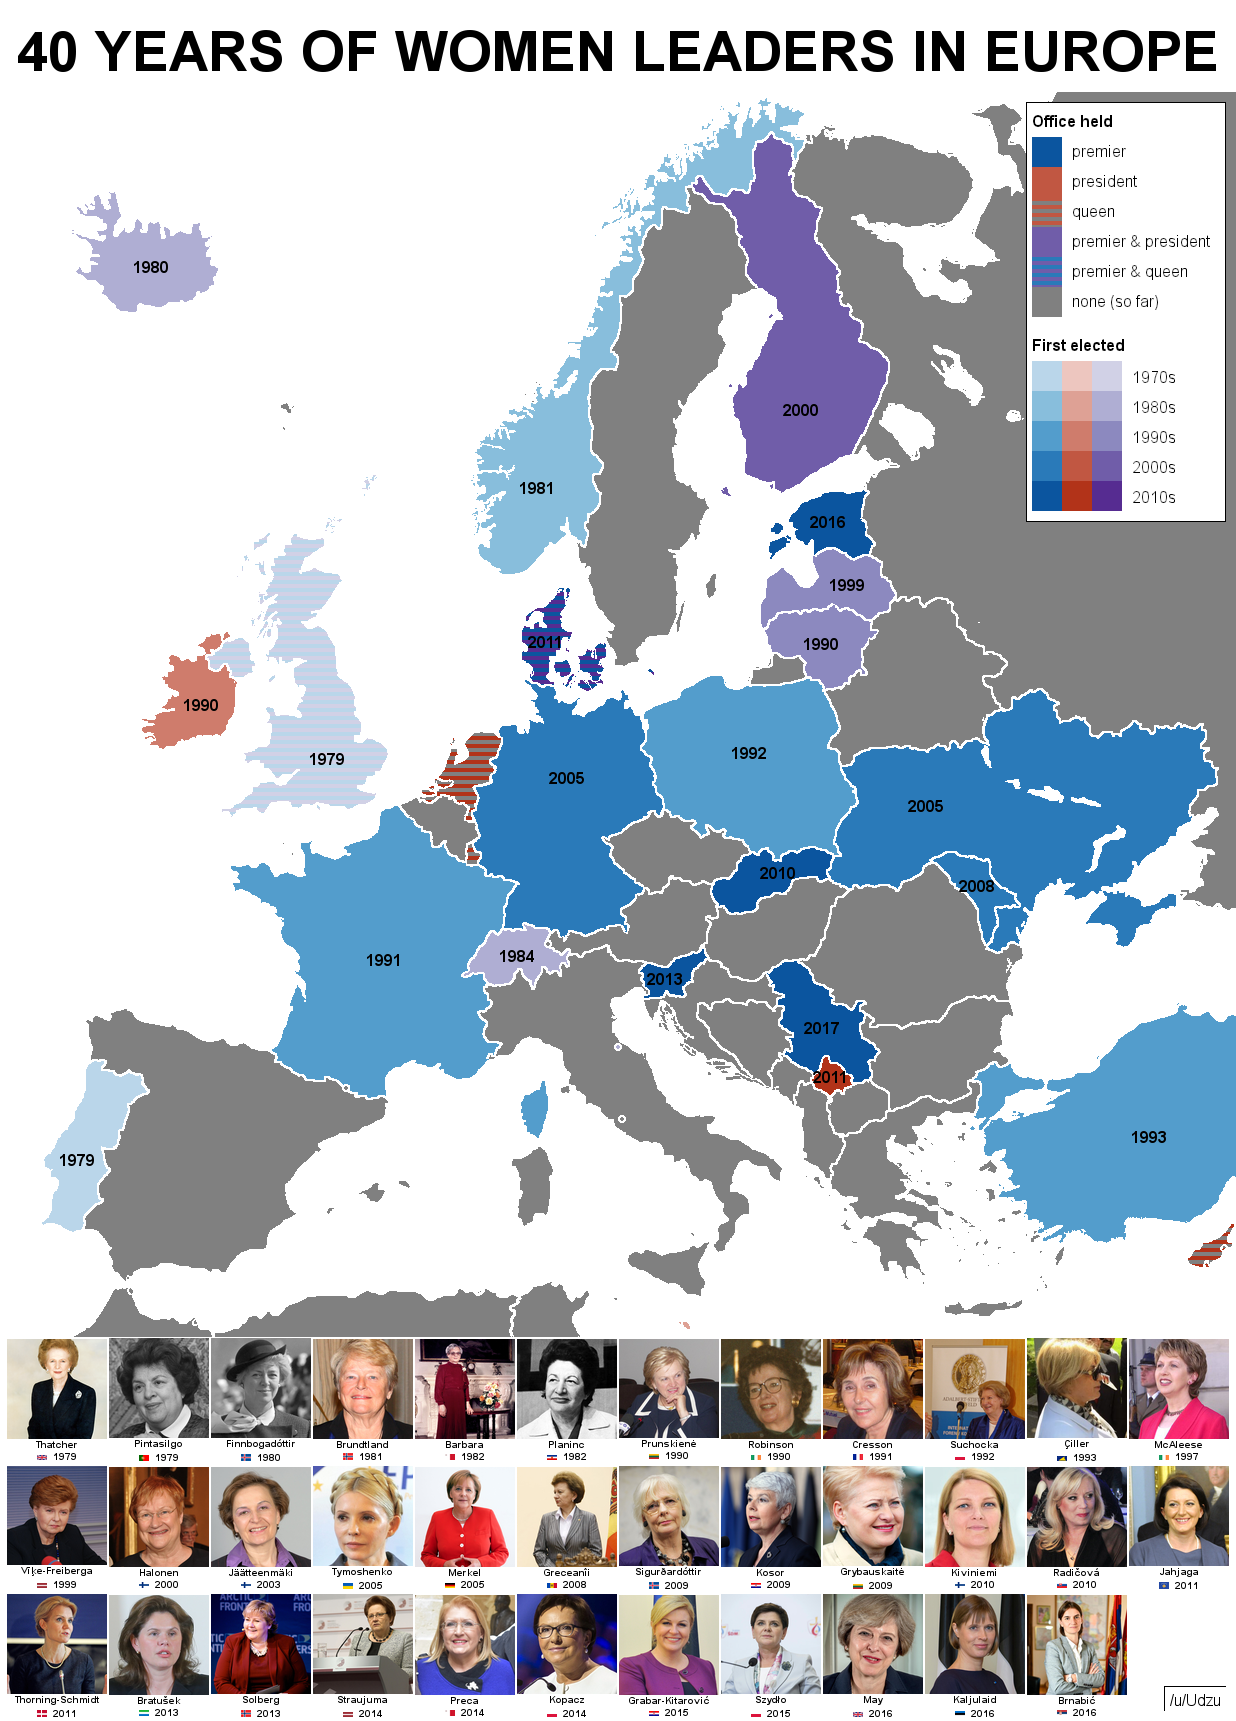
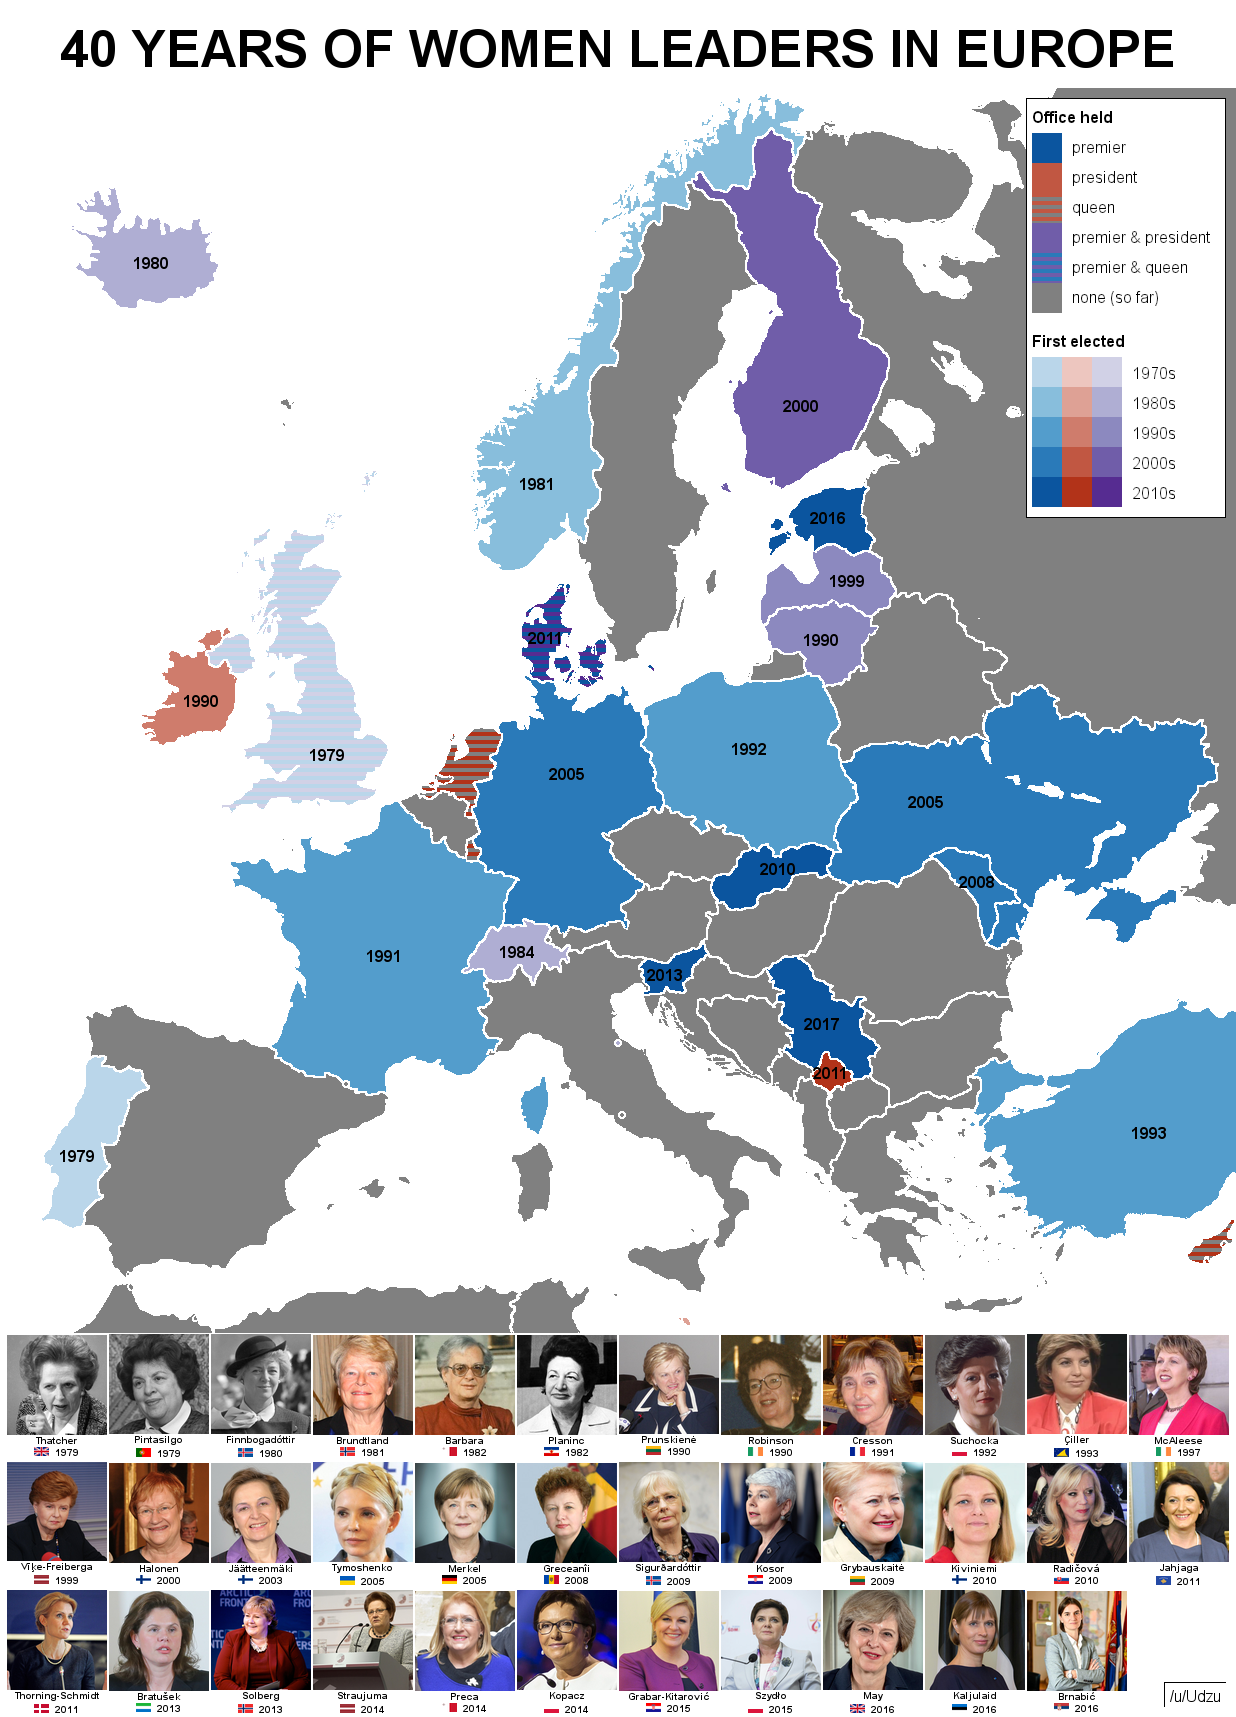
Update a few photos

diff --git a/dataviz/femaleleaders.py b/dataviz/femaleleaders.py
@@ -5,7 +5,7 @@ from records import *
 import seaborn as sns
 import dateparser
 
-# mappy bit
+# generate map
 rs = RecordCSV.load_file("femaleleaders.csv")
 rs = update_records(rs, update_if('hosdate:exists or hogdate:exists', update_with(date=lambda d: min(d.get('hosdate',2017), d.get('hogdate',2017)))))
 rd = records_to_dict(rs, "country")
@@ -29,9 +29,9 @@ def colorfn(c):
     
 chart = map_chart("maps/Europe.png", colorfn, ignoring_exceptions(lambda c: str(rd[c]["date"])), label_font=arial(16, bold=True))
 
-box_size = 30
+# generate legend
 font_size = 16
-
+box_size = 30
 def box(c): return Image.new("RGBA", (box_size,box_size), c)
 def stripebox(c1, c2): return Image.from_pattern(stripe(c1, c2), (box_size,box_size))
 
@@ -45,7 +45,7 @@ year_leg = Image.from_column([Image.from_text("First elected", arial(font_size, 
 legend = Image.from_column([type_leg, year_leg], bg="white", xalign=0, padding=5).pad(1, "black")
 chart = chart.place(legend, align=(1,0), padding=10)
 
-# griddy bit
+# generate image grid
 trs = RecordCSV.load_file("femaleleaders_timeline.csv")
 tdata = pd.DataFrame([trs[i:i+12] for i in range(0,36,12)])
 atlas = records_to_dict(RecordCSV.load_file("countries.csv"), "tld")
@@ -56,14 +56,14 @@ def process(img, d):
     return Image.from_column([
       img.crop_to_aspect(100, 100, (0.5, 0.2)).resize_fixed_aspect(width=100),
       Image.from_text(d['name'].split(" ")[-1], arial(10, bold=True), fg="black", bg="white"),
-      Image.from_row([Image.from_url_with_cache(atlas[".{}".format(d['country'])]['flag']).resize_fixed_aspect(width=10),
+      Image.from_row([Image.from_url_with_cache(atlas[".{}".format(d['country'])]['flag']).resize((15,9)),
                       Image.from_text(str(d['year']), arial(10, bold=True), fg="black", bg="white")], bg="white", padding=3, yalign=1)
       ], bg="white")
     
 grid = grid_chart(tdata, lambda d: d and d["url"], process, bg="white", padding=1)
 
 # put it all together
-title = Image.from_text("40 Years of Women Leaders in Europe".upper(), arial(56, bold=True), "black", "white", padding=(0,20))
+title = Image.from_text("40 Years of Women Leaders in Europe".upper(), arial(52, bold=True), "black", "white", padding=(0,20))
 img = Image.from_column([title, chart, grid], bg="white")
 img.place(Image.from_text("/u/Udzu", font("arial", 16), fg="black", bg="white", padding=5).pad((1,1,0,0), "black"), align=1, padding=10, copy=False)
 img.save("femaleleaders.png")
